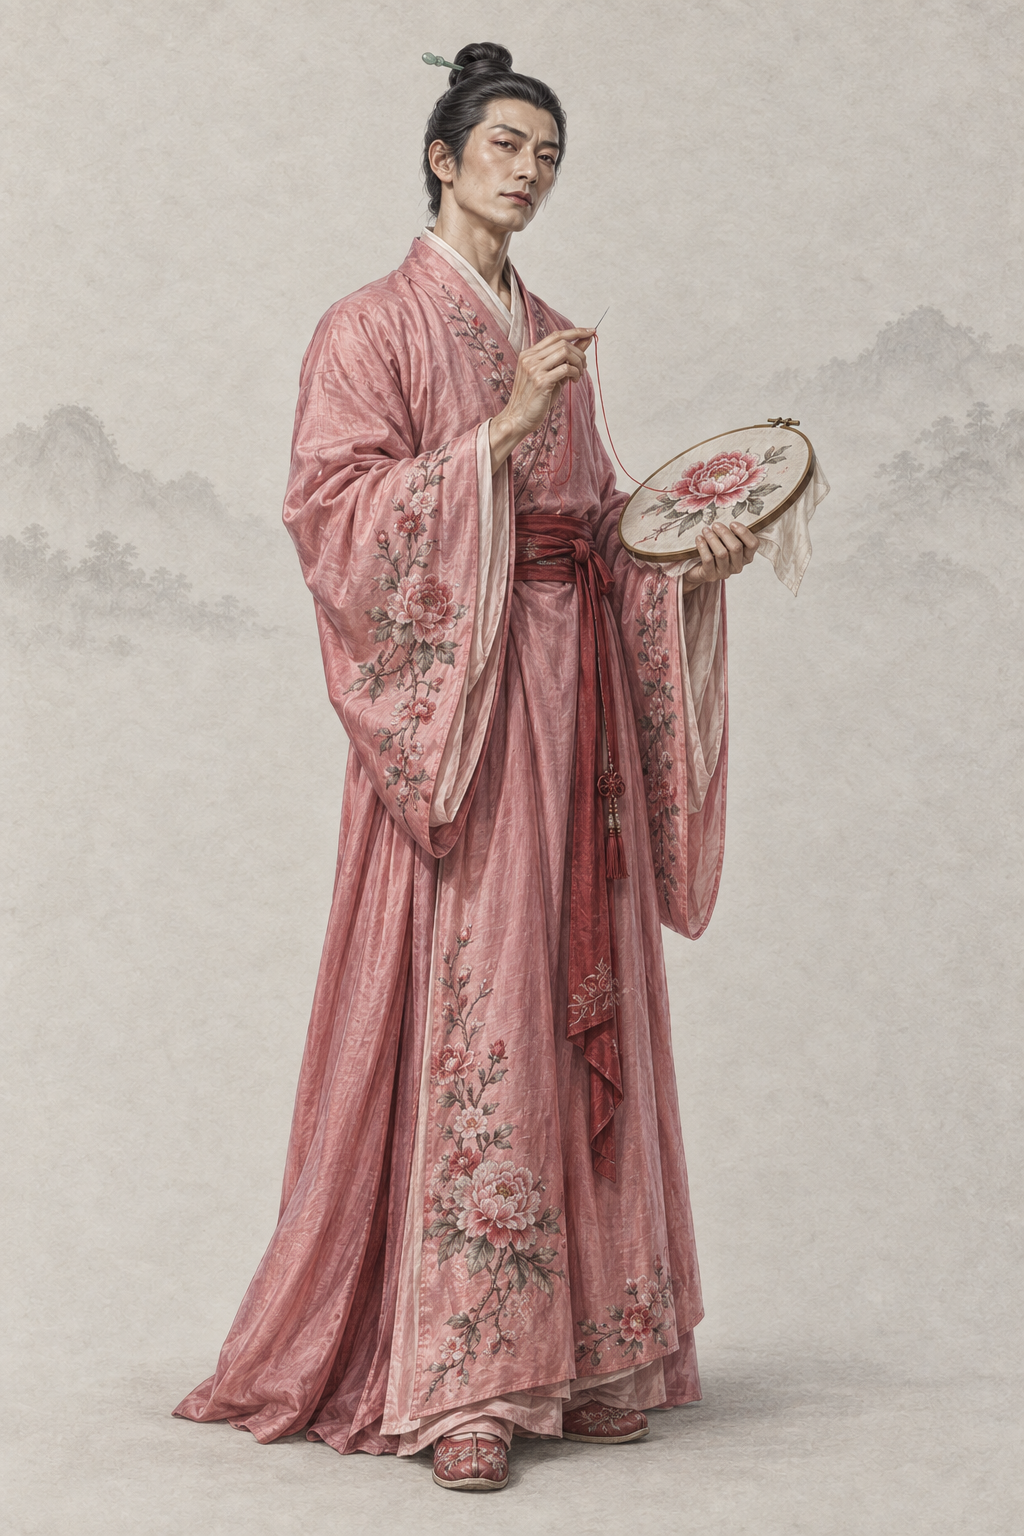
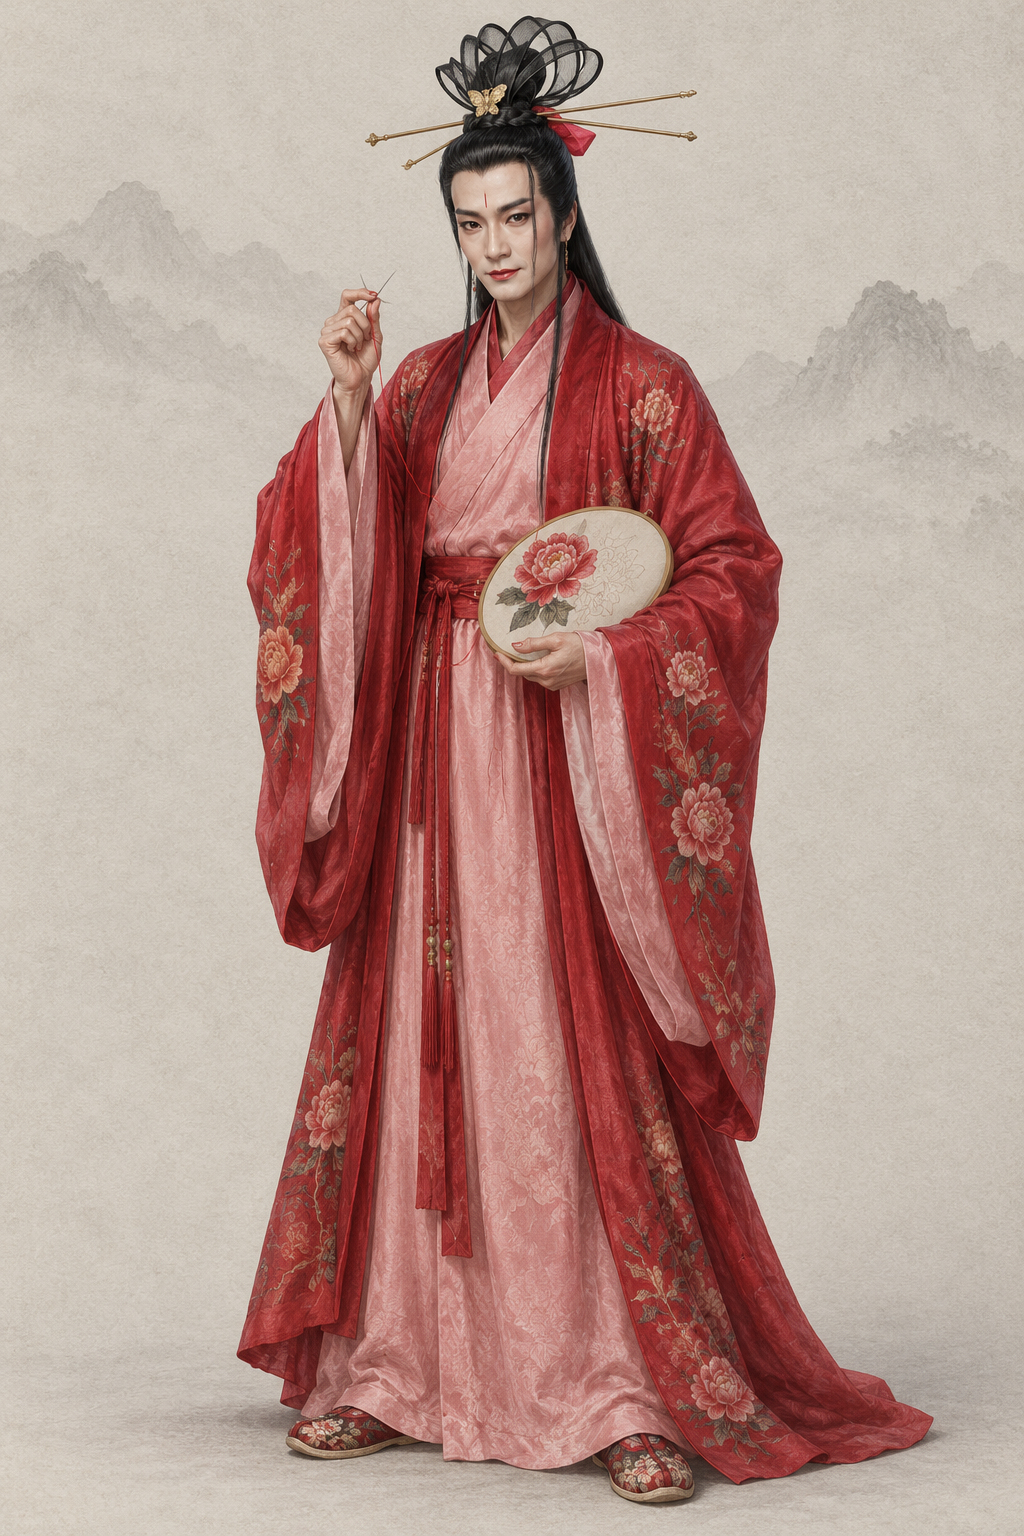
assets(character): por_npc_dongfangbubai__ch05_prime_heimuya_base 东方不败（codex · AR-32 1996 TVB《笑傲江湖》 剧照 + 基线）
参考 第 1–2 张为 1996 TVB《笑傲江湖》东方不败剧照（dongfangbubai_1996_luzhenshun_sina.jpg；sohu1.jpg 裁去水印）与两张同性别基线重出；提示词写回、frontmatter 加 classic_ref。

diff --git a/assets/default/prompts/characters/ch05-xiaoao/npc_dongfangbubai.md b/assets/default/prompts/characters/ch05-xiaoao/npc_dongfangbubai.md
@@ -17,15 +17,51 @@ references:
   use: 第三仅用户指定浅水墨背景、暖浅灰纸底、远景留白；已在本会话实际view且SHA复核。忽略女性脸、身形、衣装、发饰与头部倾角；墨色不能侵蚀人物皮肤衣料或道具。
 status: redo
 redo_reason: "现图是穿粉衣的年轻俊男，没有原著“剃须、施脂粉、男不男女不女”的阴柔妖异感，也不像中年教主。"
-reference_upload:
-- assets/default/baseline/character/male/ref_npc_linghuchong__ch05_base01.png
 realism_revision: user_identity_pose_20261001
 codex_prompt_rev: 2026-10-02
+reference_upload:
+- .agents/coord/imagegen-reference/identity-20261002/xiaoao/dongfangbubai_1996_luzhenshun_sina.jpg
+- .agents/coord/imagegen-reference/identity-20261002/xiaoao/dongfangbubai_1996_luzhenshun_sohu1.jpg
+- assets/default/baseline/character/male/ref_npc_linghuchong__ch05_base01.png
+- assets/default/baseline/character/male/ref_npc_xiaofeng__ch01_base01.png
+classic_ref:
+  version: 1996 TVB《笑傲江湖》
+  stills:
+  - .agents/coord/imagegen-reference/identity-20261002/xiaoao/dongfangbubai_1996_luzhenshun_sina.jpg
+  - .agents/coord/imagegen-reference/identity-20261002/xiaoao/dongfangbubai_1996_luzhenshun_sohu1.jpg
+  crop:
+    dongfangbubai_1996_luzhenshun_sohu1.jpg:
+    - 250
+    - 0
+    - 1000
+    - 850
 ---
 
 # 东方不败 · 人物写实修正
 
 ## Gemini 提示词
+
+> 2026-10-02 AR-32 重出（8 号出图员，codex exec · image_gen）：主要角色参考经典造型加项目基线生成。上传顺序：第 1–2 张为 1996 TVB《笑傲江湖》东方不败剧照（dongfangbubai_1996_luzhenshun_sina.jpg；sohu1.jpg 裁去水印），最后两张为同性别画风基线（缩小版 JPEG）。参考图只借造型、气质与面部特征，画面按项目画风重绘、不复制照片或像素图。上一版保留在下一节作历史。
+
+```text
+生成一张 2:3 竖幅全身人物立绘：单人、单一视角、完整全身——头顶、双手、双脚和手中器物的两端都在画面内，四周留出自然空白；人物站姿自然，身体基本朝向正面，头部端正（不歪头、不仰不俯），镜头平视。
+【参考图】第 1–2 张参考图是该角色经典影视造型的剧照：借鉴其发型、服饰、配色、标志道具、气质和面部特征，让人一眼认出是这个角色；但必须重新绘制成项目画风，不要照片质感，不要照搬剧照的构图、光影、背景和姿势，也不要做成照片修图。最后两张是本项目画风基线：画风、用色、光线、质感和暖浅灰纸底加淡水墨背景以它们为准。
+【剧照借鉴要点】取剧照里极具辨识度的造型：头顶高耸的黑色发冠（发丝盘成一圈圈向上张开的黑色环形，别一只金色蝴蝶饰、横插几支细长金簪）、乌黑长发披在肩后、白粉敷面、朱唇、额间一点红色花钿、粉红与大红的绣花长袍，以及剧照里男子的骨相和妖异的眼神。姿势和构图按下文的全身立绘来画，不照搬剧照。
+【画风】写实手绘古风人物插画，与本项目写实武侠角色立绘同一画风，像功力深厚的画师用细腻笔触画出的真实人物。手绘插画质感，不是 CG 渲染：不要过度光滑的皮肤、完美对称的五官、塑料高光、过度锐利的发丝；保留自然的笔触和细微不完美。皮肤有真实质感——细小毛孔、细纹、晒痕和自然的左右不对称，不磨皮、不油亮；头发是一缕缕自然的发丝和少量碎发；布料看得出经纬纹理、厚薄和自然垂坠的褶皱，带穿用过的轻微旧化，但完整不破烂；整体设色低饱和、沉稳；柔和的自然光从左上方照来，明暗过渡自然，不打舞台光、轮廓光或美颜柔光。不是照片，不是三维渲染，不是动漫或游戏 CG，也不是油画（没有厚涂笔触和画布纹理）。
+【背景】不透明的暖浅灰色纸底，只在远处有极淡的水墨远山和薄雾，大面积留白；人物与背景明暗分明、轮廓边缘干净完整（后续要自动抠图），水墨和纸纹只在背景里，不侵入人物和衣服；脚下只有很淡的一点接触阴影。
+【人物】东方不败，《笑傲江湖》中的日月神教教主，修炼《葵花宝典》之后隐居黑木崖绣房的时期。原著里他是男子，本图画成男子。
+【年龄与体态】约四十岁的中年男子，身形瘦削修长、肩窄而挺；骨架、颈部（有喉结）和手上的骨节都是成年男人，但举手投足带着女子般的阴柔。
+【经典造型】九十年代经典港剧里的东方不败：高耸的黑色发冠插金簪、白粉朱唇、额点花钿、一身娇艳的粉红与大红绣花长袍，指间拈着连着红线的绣花针；美得妖异、让人不安，却分明是一个中年男子；不丑化、不滑稽。
+【面容】按剧照：清瘦偏长的男子脸，颧骨清楚、下颌有棱角，下巴和唇上剃得干干净净、没有胡须；眉毛修得细长上挑；眼睛细长、眼尾上挑，眼神阴柔妩媚而又冷厉莫测；脸上敷着白粉，嘴唇点着朱红胭脂，额间一点红色花钿；脂粉下仍看得见中年男人的皮肤纹理、眼角细纹和法令纹。
+【发式】头顶高耸的黑色发冠：头发盘成一圈圈向上张开的黑色环形，中间别一只金色蝴蝶饰，横插几支细长金簪；其余乌黑长发披在肩后。
+【服饰】一件颜色极为娇艳的粉红色绸缎长袍（交领右衽，左襟压右襟），外罩大红色绣花大袖衫，衣襟和袖口绣着细碎的花枝；腰系红色丝绦；脚穿绣花软鞋。
+【道具】左手托着一个圆形绣花绷架，绷着一幅未完成的牡丹刺绣；右手拇指和食指轻轻拈着一枚细小的绣花针，针尾连着一缕红线，小指微翘。
+【姿态与神情】嘴角似笑非笑，安静地看着前方，像刺绣时被人打扰。
+【不要】画面里不要任何文字、题款、印章、签名、水印、边框、分格或多视图；不要第二个人；不要幼态（童颜、娃娃脸、婴儿肥、儿童或少年身材、大头小身）；不要塑料感皮肤、磨皮美颜、网红脸（尖下巴大眼高鼻的模板脸）、过度对称、浓妆、偶像式打光、蜡像感；不要照片质感，不要像剧照照片、照片修图或拼贴，不要照搬剧照的背景、光影、构图和姿势；不要三维渲染或动漫大眼；不要歪头、斜镜头；不要多指、缺指（设定的伤残除外）、手与器物粘连或悬空；衣襟必须右衽（穿着者的左襟压在右襟上），不要左衽（设定为少数民族服制的除外），不要水平镜像；不要现代物品、发光特效、法阵或能量光。不要画成女人（要有喉结和男子骨相）；不要年轻俊美的偶像脸；不要丑化或滑稽；不要清代剃发留辫。
+【画风基线】随提示词上传的参考图里，最后两张是本项目的立绘画风基线：只参考它们的画风、用色、光线、质感和暖浅灰纸底加淡水墨的背景处理，整体画风必须与它们一致——精细写实的数字手绘插画，不是油画，不要厚涂笔触和画布纹理。基线图只取画风，不取长相：不要照搬基线图里人物的长相、年龄、发型、服饰和姿势。
+```
+
+## AR-31 文字版 Gemini 提示词（2026-10-02 凌晨；AR-32 重出之前，历史，不再用于出图）
 
 > 2026-10-02 Codex 人物线 2 号（AR-31）：在审核组稿上补一行「经典形象」（借鉴公认经典造型的发式、装束、配色、标志道具与气质，只写文字，不写演员名、不上传剧照），并补去 AI 化要求。本轮出图用下面第一个代码块；审核组原稿保留在其后的「审核组原稿」小节作历史。
 
